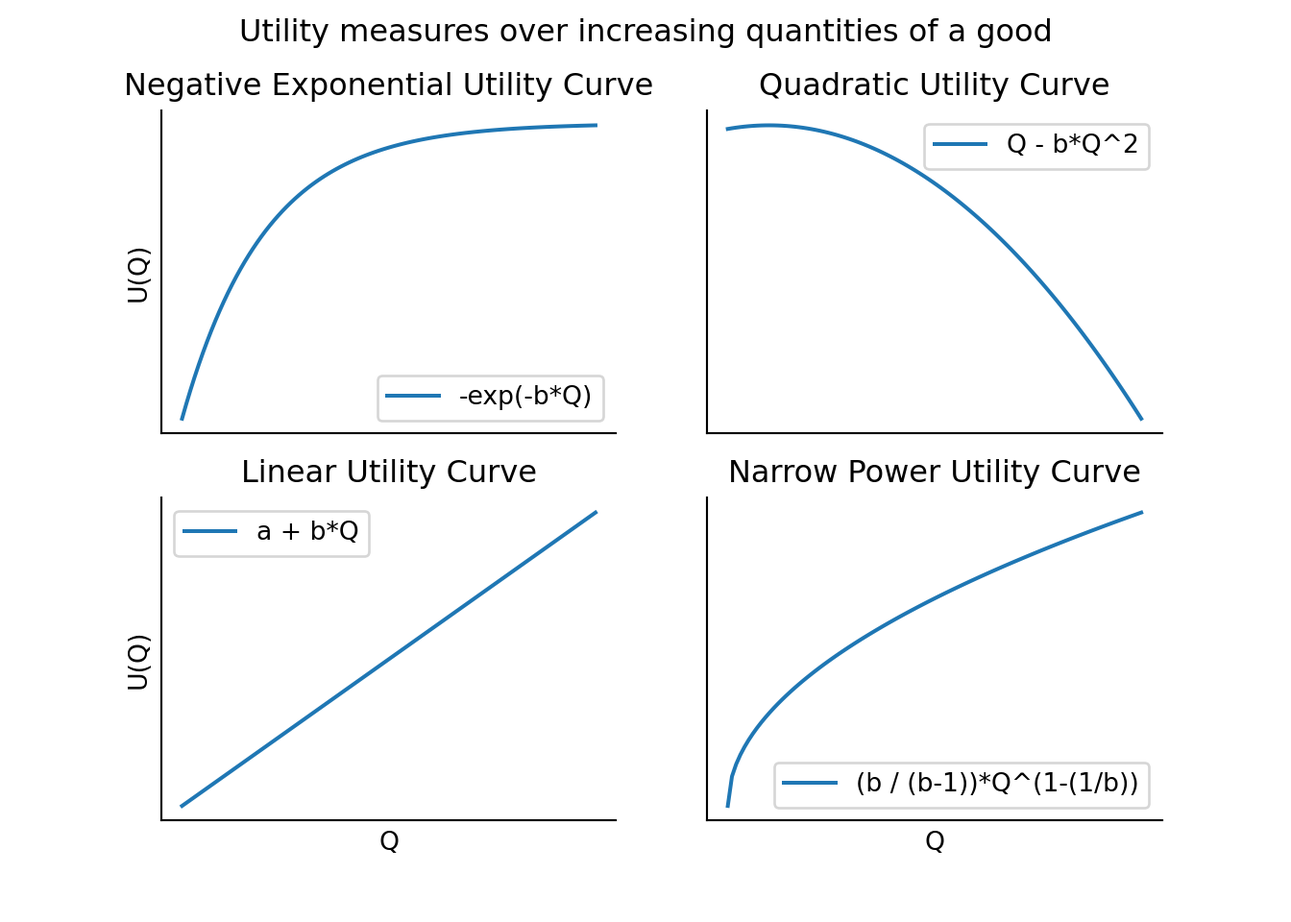
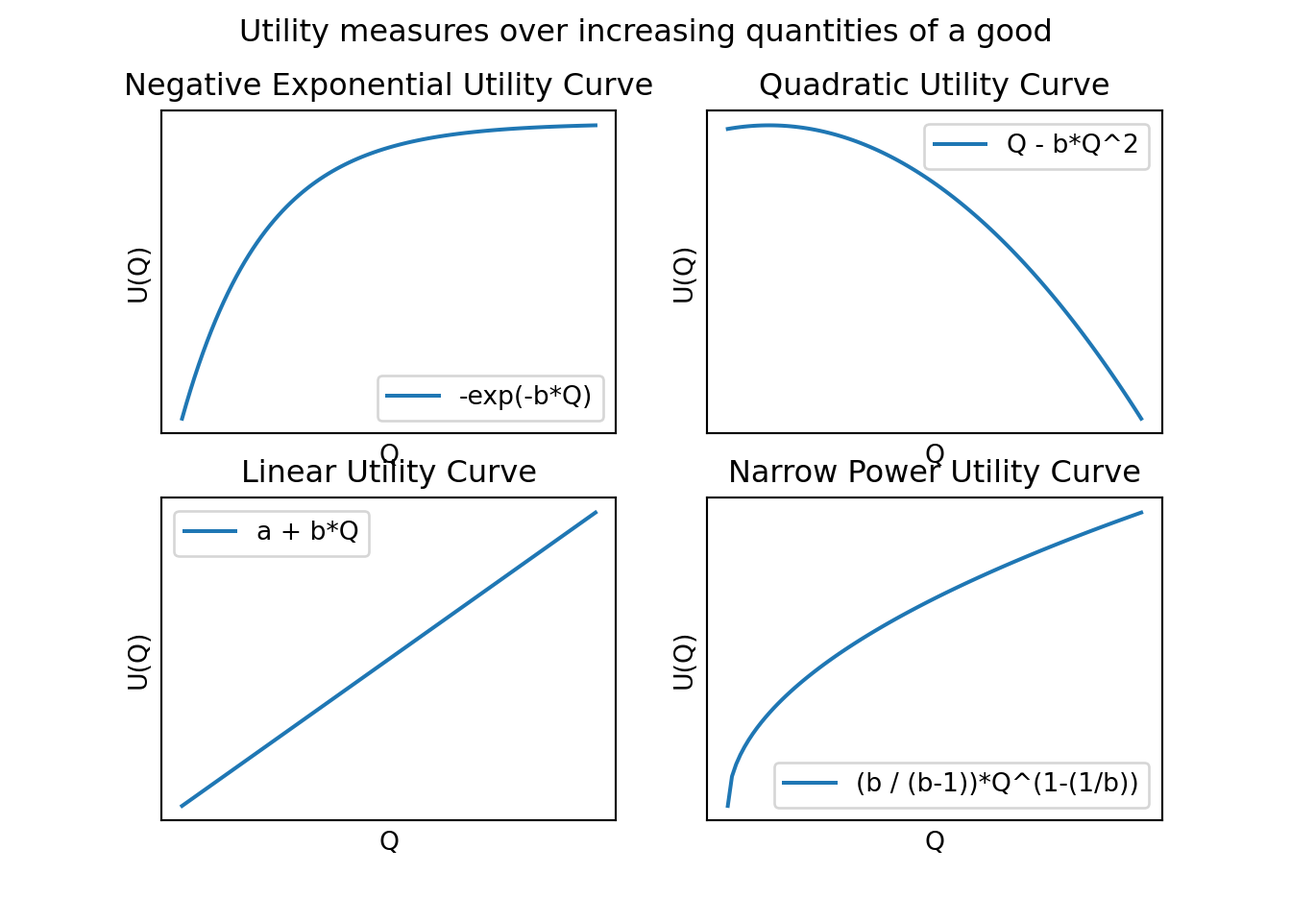
rebuilding site Fri  5 Mar 2021 21:58:04 GMT

diff --git a/book/the-average-man.html b/book/the-average-man.html
@@ -24,7 +24,7 @@
 <meta name="author" content="Nathaniel Forde" />
 
 
-<meta name="date" content="2021-03-04" />
+<meta name="date" content="2021-03-05" />
 
   <meta name="viewport" content="width=device-width, initial-scale=1" />
   <meta name="apple-mobile-web-app-capable" content="yes" />
@@ -158,6 +158,7 @@ code span.wa { color: #60a0b0; font-weight: bold; font-style: italic; } /* Warni
 <ul>
 <li class="chapter" data-level="2.4.1" data-path="the-average-man.html"><a href="the-average-man.html#the-stakes-from-utility-to-indifference"><i class="fa fa-check"></i><b>2.4.1</b> The Stakes: From Utility to Indifference</a></li>
 </ul></li>
+<li class="chapter" data-level="2.5" data-path="the-average-man.html"><a href="the-average-man.html#optimising-utility"><i class="fa fa-check"></i><b>2.5</b> Optimising Utility</a></li>
 </ul></li>
 <li class="chapter" data-level="3" data-path="literature.html"><a href="literature.html"><i class="fa fa-check"></i><b>3</b> Literature</a></li>
 <li class="chapter" data-level="4" data-path="methods.html"><a href="methods.html"><i class="fa fa-check"></i><b>4</b> Methods</a></li>
@@ -500,70 +501,107 @@ Outcomes can vary from deals of cards, to customer transactions, election result
 <h3><span class="header-section-number">2.4.1</span> The Stakes: From Utility to Indifference</h3>
 <p>Our views of probability can flex up and down in response to facts, but it’s less clear how our estimates of utility change. Too much of a good thing often tends to the bad. So we dabble, sample and share. In pursuit of variety we swap our goods, shunning stale options in favour of the novel exchange. For a given good we can differ in our appetites but it’s relatively straightforward to find the point where - one more donut is one too many. While it can be a bit unclear how we should measure utility, once we’ve decided on a metric the mathematical characteristics are meaningful. If the scale is donuts, we can infer aspects of your attitudes from your acquisition and enthusiasm for donuts. In most cases we’re interested not just in your pursuit of pastries, but how you’d be willing to trade for those pastries.</p>
 <p>We seek competitive advantage for our own produce to balance the cost owed to the skills of others. This coordinated compromise lies at the core of maximising subjective utility in a market, but at the limit some scenarios do not admit any admixture of goods. Not all babies can be cut in half. But in most cases a consumer will try to optimise their bundle of goods over an entire marketplace, preserving enough on one key good; money, to remain liquid. So, to a first approximation our utility estimate would seem to be a multivariate function.</p>
-<div class="sourceCode" id="cb9"><pre class="sourceCode python"><code class="sourceCode python"><span id="cb9-1"><a href="the-average-man.html#cb9-1" aria-hidden="true" tabindex="-1"></a></span>
-<span id="cb9-2"><a href="the-average-man.html#cb9-2" aria-hidden="true" tabindex="-1"></a><span class="kw">def</span> linear_utility(x, a<span class="op">=</span><span class="dv">2</span>, b<span class="op">=</span><span class="dv">4</span>):</span>
-<span id="cb9-3"><a href="the-average-man.html#cb9-3" aria-hidden="true" tabindex="-1"></a>    <span class="co"># This works fine on smaller numbers</span></span>
-<span id="cb9-4"><a href="the-average-man.html#cb9-4" aria-hidden="true" tabindex="-1"></a>    <span class="cf">return</span> a <span class="op">+</span> b<span class="op">*</span>x</span>
-<span id="cb9-5"><a href="the-average-man.html#cb9-5" aria-hidden="true" tabindex="-1"></a></span>
-<span id="cb9-6"><a href="the-average-man.html#cb9-6" aria-hidden="true" tabindex="-1"></a><span class="kw">def</span> quadriatic_utility(x, b<span class="op">=</span><span class="fl">0.5</span>):</span>
-<span id="cb9-7"><a href="the-average-man.html#cb9-7" aria-hidden="true" tabindex="-1"></a>    <span class="cf">return</span> x <span class="op">-</span> (b)<span class="op">*</span>(x<span class="op">**</span><span class="dv">2</span>)</span>
-<span id="cb9-8"><a href="the-average-man.html#cb9-8" aria-hidden="true" tabindex="-1"></a></span>
-<span id="cb9-9"><a href="the-average-man.html#cb9-9" aria-hidden="true" tabindex="-1"></a><span class="kw">def</span> logarithmic_utility(x, a, b):</span>
-<span id="cb9-10"><a href="the-average-man.html#cb9-10" aria-hidden="true" tabindex="-1"></a>    <span class="cf">return</span> np.log(a) <span class="op">+</span> b<span class="op">*</span>np.log(x)</span>
-<span id="cb9-11"><a href="the-average-man.html#cb9-11" aria-hidden="true" tabindex="-1"></a></span>
-<span id="cb9-12"><a href="the-average-man.html#cb9-12" aria-hidden="true" tabindex="-1"></a><span class="kw">def</span> negative_exp_utility(x, c<span class="op">=</span><span class="fl">.5</span>):</span>
-<span id="cb9-13"><a href="the-average-man.html#cb9-13" aria-hidden="true" tabindex="-1"></a>    <span class="cf">return</span> <span class="op">-</span>np.exp(<span class="op">-</span>(c<span class="op">*</span>x))</span>
-<span id="cb9-14"><a href="the-average-man.html#cb9-14" aria-hidden="true" tabindex="-1"></a></span>
-<span id="cb9-15"><a href="the-average-man.html#cb9-15" aria-hidden="true" tabindex="-1"></a><span class="kw">def</span> narrow_power(x, B<span class="op">=</span><span class="dv">2</span>):</span>
-<span id="cb9-16"><a href="the-average-man.html#cb9-16" aria-hidden="true" tabindex="-1"></a>    <span class="cf">return</span> (B <span class="op">/</span> (B <span class="op">-</span> <span class="dv">1</span>))<span class="op">*</span>(x<span class="op">**</span>(<span class="dv">1</span> <span class="op">-</span> (<span class="dv">1</span><span class="op">/</span>B)))</span>
-<span id="cb9-17"><a href="the-average-man.html#cb9-17" aria-hidden="true" tabindex="-1"></a></span>
-<span id="cb9-18"><a href="the-average-man.html#cb9-18" aria-hidden="true" tabindex="-1"></a>xdata <span class="op">=</span> np.linspace(<span class="dv">0</span>, <span class="dv">10</span>, <span class="dv">100</span>)</span>
-<span id="cb9-19"><a href="the-average-man.html#cb9-19" aria-hidden="true" tabindex="-1"></a>negExp <span class="op">=</span> negative_exp_utility(xdata, <span class="fl">0.5</span>)</span>
-<span id="cb9-20"><a href="the-average-man.html#cb9-20" aria-hidden="true" tabindex="-1"></a>quad <span class="op">=</span> quadriatic_utility(xdata, <span class="fl">0.5</span>)</span>
-<span id="cb9-21"><a href="the-average-man.html#cb9-21" aria-hidden="true" tabindex="-1"></a>narrow_pow <span class="op">=</span> narrow_power(xdata, <span class="dv">2</span>)</span>
-<span id="cb9-22"><a href="the-average-man.html#cb9-22" aria-hidden="true" tabindex="-1"></a>lin <span class="op">=</span> linear_utility(xdata, <span class="dv">2</span>, <span class="dv">3</span>)</span>
-<span id="cb9-23"><a href="the-average-man.html#cb9-23" aria-hidden="true" tabindex="-1"></a></span>
-<span id="cb9-24"><a href="the-average-man.html#cb9-24" aria-hidden="true" tabindex="-1"></a><span class="co"># Create plot</span></span>
-<span id="cb9-25"><a href="the-average-man.html#cb9-25" aria-hidden="true" tabindex="-1"></a>fig, ((ax0, ax1), (ax2, ax3)) <span class="op">=</span> plt.subplots(<span class="dv">2</span>, <span class="dv">2</span>)</span>
-<span id="cb9-26"><a href="the-average-man.html#cb9-26" aria-hidden="true" tabindex="-1"></a></span>
-<span id="cb9-27"><a href="the-average-man.html#cb9-27" aria-hidden="true" tabindex="-1"></a>ax0.plot(xdata, negExp, label<span class="op">=</span><span class="st">&quot;-exp(-b*Q)&quot;</span>)</span>
-<span id="cb9-28"><a href="the-average-man.html#cb9-28" aria-hidden="true" tabindex="-1"></a>ax0.set_title(<span class="st">&quot;Negative Exponential Utility Curve&quot;</span>)</span>
-<span id="cb9-29"><a href="the-average-man.html#cb9-29" aria-hidden="true" tabindex="-1"></a>temp <span class="op">=</span> ax0.set_xticks([])</span>
-<span id="cb9-30"><a href="the-average-man.html#cb9-30" aria-hidden="true" tabindex="-1"></a>temp <span class="op">=</span> ax0.set_yticks([])</span>
-<span id="cb9-31"><a href="the-average-man.html#cb9-31" aria-hidden="true" tabindex="-1"></a>temp <span class="op">=</span>ax0.set_ylabel(<span class="st">&quot;U(Q)&quot;</span>)</span>
-<span id="cb9-32"><a href="the-average-man.html#cb9-32" aria-hidden="true" tabindex="-1"></a>ax0.legend()</span>
-<span id="cb9-33"><a href="the-average-man.html#cb9-33" aria-hidden="true" tabindex="-1"></a>ax0.titlesize <span class="op">=</span> <span class="dv">10</span></span>
-<span id="cb9-34"><a href="the-average-man.html#cb9-34" aria-hidden="true" tabindex="-1"></a></span>
-<span id="cb9-35"><a href="the-average-man.html#cb9-35" aria-hidden="true" tabindex="-1"></a>ax1.plot(xdata, quad, label<span class="op">=</span><span class="st">&quot;Q - b*Q^2&quot;</span>)</span>
-<span id="cb9-36"><a href="the-average-man.html#cb9-36" aria-hidden="true" tabindex="-1"></a>ax1.set_title(<span class="st">&quot;Quadratic Utility Curve&quot;</span>)</span>
-<span id="cb9-37"><a href="the-average-man.html#cb9-37" aria-hidden="true" tabindex="-1"></a>temp <span class="op">=</span> ax1.set_xticks([])</span>
-<span id="cb9-38"><a href="the-average-man.html#cb9-38" aria-hidden="true" tabindex="-1"></a>temp <span class="op">=</span> ax1.set_yticks([])</span>
-<span id="cb9-39"><a href="the-average-man.html#cb9-39" aria-hidden="true" tabindex="-1"></a>ax1.legend()</span>
-<span id="cb9-40"><a href="the-average-man.html#cb9-40" aria-hidden="true" tabindex="-1"></a></span>
-<span id="cb9-41"><a href="the-average-man.html#cb9-41" aria-hidden="true" tabindex="-1"></a>ax2.plot(xdata, lin, label<span class="op">=</span><span class="st">&quot;a + b*Q&quot;</span>)</span>
-<span id="cb9-42"><a href="the-average-man.html#cb9-42" aria-hidden="true" tabindex="-1"></a>ax2.set_title(<span class="st">&quot;Linear Utility Curve&quot;</span>)</span>
-<span id="cb9-43"><a href="the-average-man.html#cb9-43" aria-hidden="true" tabindex="-1"></a>temp <span class="op">=</span> ax2.set_yticks([])</span>
-<span id="cb9-44"><a href="the-average-man.html#cb9-44" aria-hidden="true" tabindex="-1"></a>temp <span class="op">=</span> ax2.set_xticks([])</span>
-<span id="cb9-45"><a href="the-average-man.html#cb9-45" aria-hidden="true" tabindex="-1"></a>temp <span class="op">=</span> ax2.set_ylabel(<span class="st">&quot;U(Q)&quot;</span>)</span>
-<span id="cb9-46"><a href="the-average-man.html#cb9-46" aria-hidden="true" tabindex="-1"></a>temp <span class="op">=</span> ax2.set_xlabel(<span class="st">&quot;Q&quot;</span>)</span>
-<span id="cb9-47"><a href="the-average-man.html#cb9-47" aria-hidden="true" tabindex="-1"></a>ax2.legend()</span>
-<span id="cb9-48"><a href="the-average-man.html#cb9-48" aria-hidden="true" tabindex="-1"></a></span>
-<span id="cb9-49"><a href="the-average-man.html#cb9-49" aria-hidden="true" tabindex="-1"></a>ax3.plot(xdata, narrow_pow, label<span class="op">=</span><span class="st">&quot;(b / (b-1))*Q^(1-(1/b))&quot;</span>)</span>
-<span id="cb9-50"><a href="the-average-man.html#cb9-50" aria-hidden="true" tabindex="-1"></a>ax3.set_title(<span class="st">&quot;Narrow Power Utility Curve&quot;</span>)</span>
-<span id="cb9-51"><a href="the-average-man.html#cb9-51" aria-hidden="true" tabindex="-1"></a>temp <span class="op">=</span> ax3.set_yticks([])</span>
-<span id="cb9-52"><a href="the-average-man.html#cb9-52" aria-hidden="true" tabindex="-1"></a>temp <span class="op">=</span> ax3.set_xticks([])</span>
-<span id="cb9-53"><a href="the-average-man.html#cb9-53" aria-hidden="true" tabindex="-1"></a>temp <span class="op">=</span> ax3.set_xlabel(<span class="st">&quot;Q&quot;</span>)</span>
-<span id="cb9-54"><a href="the-average-man.html#cb9-54" aria-hidden="true" tabindex="-1"></a>ax3.legend()</span>
-<span id="cb9-55"><a href="the-average-man.html#cb9-55" aria-hidden="true" tabindex="-1"></a></span>
-<span id="cb9-56"><a href="the-average-man.html#cb9-56" aria-hidden="true" tabindex="-1"></a><span class="cf">for</span> _ax <span class="kw">in</span> [ax0, ax1, ax2, ax3]:</span>
-<span id="cb9-57"><a href="the-average-man.html#cb9-57" aria-hidden="true" tabindex="-1"></a>    _ax.spines[<span class="st">&quot;right&quot;</span>].set_visible(<span class="va">False</span>)</span>
-<span id="cb9-58"><a href="the-average-man.html#cb9-58" aria-hidden="true" tabindex="-1"></a>    _ax.spines[<span class="st">&quot;top&quot;</span>].set_visible(<span class="va">False</span>)</span>
-<span id="cb9-59"><a href="the-average-man.html#cb9-59" aria-hidden="true" tabindex="-1"></a></span>
-<span id="cb9-60"><a href="the-average-man.html#cb9-60" aria-hidden="true" tabindex="-1"></a>fig.suptitle(<span class="st">&quot;Utility measures over increasing quantities of a good&quot;</span>)</span>
-<span id="cb9-61"><a href="the-average-man.html#cb9-61" aria-hidden="true" tabindex="-1"></a>plt.show()</span></code></pre></div>
+<div class="sourceCode" id="cb9"><pre class="sourceCode python"><code class="sourceCode python"><span id="cb9-1"><a href="the-average-man.html#cb9-1" aria-hidden="true" tabindex="-1"></a><span class="kw">def</span> linear_utility(x, a<span class="op">=</span><span class="dv">2</span>, b<span class="op">=</span><span class="dv">4</span>):</span>
+<span id="cb9-2"><a href="the-average-man.html#cb9-2" aria-hidden="true" tabindex="-1"></a>    <span class="co"># This works fine on smaller numbers</span></span>
+<span id="cb9-3"><a href="the-average-man.html#cb9-3" aria-hidden="true" tabindex="-1"></a>    <span class="cf">return</span> a <span class="op">+</span> b<span class="op">*</span>x</span>
+<span id="cb9-4"><a href="the-average-man.html#cb9-4" aria-hidden="true" tabindex="-1"></a></span>
+<span id="cb9-5"><a href="the-average-man.html#cb9-5" aria-hidden="true" tabindex="-1"></a><span class="kw">def</span> quadriatic_utility(x, b<span class="op">=</span><span class="fl">0.5</span>):</span>
+<span id="cb9-6"><a href="the-average-man.html#cb9-6" aria-hidden="true" tabindex="-1"></a>    <span class="cf">return</span> x <span class="op">-</span> (b)<span class="op">*</span>(x<span class="op">**</span><span class="dv">2</span>)</span>
+<span id="cb9-7"><a href="the-average-man.html#cb9-7" aria-hidden="true" tabindex="-1"></a></span>
+<span id="cb9-8"><a href="the-average-man.html#cb9-8" aria-hidden="true" tabindex="-1"></a><span class="kw">def</span> logarithmic_utility(x, a, b):</span>
+<span id="cb9-9"><a href="the-average-man.html#cb9-9" aria-hidden="true" tabindex="-1"></a>    <span class="cf">return</span> np.log(a) <span class="op">+</span> b<span class="op">*</span>np.log(x)</span>
+<span id="cb9-10"><a href="the-average-man.html#cb9-10" aria-hidden="true" tabindex="-1"></a></span>
+<span id="cb9-11"><a href="the-average-man.html#cb9-11" aria-hidden="true" tabindex="-1"></a><span class="kw">def</span> negative_exp_utility(x, c<span class="op">=</span><span class="fl">.5</span>):</span>
+<span id="cb9-12"><a href="the-average-man.html#cb9-12" aria-hidden="true" tabindex="-1"></a>    <span class="cf">return</span> <span class="op">-</span>np.exp(<span class="op">-</span>(c<span class="op">*</span>x))</span>
+<span id="cb9-13"><a href="the-average-man.html#cb9-13" aria-hidden="true" tabindex="-1"></a></span>
+<span id="cb9-14"><a href="the-average-man.html#cb9-14" aria-hidden="true" tabindex="-1"></a><span class="kw">def</span> narrow_power(x, B<span class="op">=</span><span class="dv">2</span>):</span>
+<span id="cb9-15"><a href="the-average-man.html#cb9-15" aria-hidden="true" tabindex="-1"></a>    <span class="cf">return</span> (B <span class="op">/</span> (B <span class="op">-</span> <span class="dv">1</span>))<span class="op">*</span>(x<span class="op">**</span>(<span class="dv">1</span> <span class="op">-</span> (<span class="dv">1</span><span class="op">/</span>B)))</span>
+<span id="cb9-16"><a href="the-average-man.html#cb9-16" aria-hidden="true" tabindex="-1"></a></span>
+<span id="cb9-17"><a href="the-average-man.html#cb9-17" aria-hidden="true" tabindex="-1"></a>xdata <span class="op">=</span> np.linspace(<span class="dv">0</span>, <span class="dv">10</span>, <span class="dv">100</span>)</span>
+<span id="cb9-18"><a href="the-average-man.html#cb9-18" aria-hidden="true" tabindex="-1"></a>negExp <span class="op">=</span> negative_exp_utility(xdata, <span class="fl">0.5</span>)</span>
+<span id="cb9-19"><a href="the-average-man.html#cb9-19" aria-hidden="true" tabindex="-1"></a>quad <span class="op">=</span> quadriatic_utility(xdata, <span class="fl">0.5</span>)</span>
+<span id="cb9-20"><a href="the-average-man.html#cb9-20" aria-hidden="true" tabindex="-1"></a>narrow_pow <span class="op">=</span> narrow_power(xdata, <span class="dv">2</span>)</span>
+<span id="cb9-21"><a href="the-average-man.html#cb9-21" aria-hidden="true" tabindex="-1"></a>lin <span class="op">=</span> linear_utility(xdata, <span class="dv">2</span>, <span class="dv">3</span>)</span>
+<span id="cb9-22"><a href="the-average-man.html#cb9-22" aria-hidden="true" tabindex="-1"></a></span>
+<span id="cb9-23"><a href="the-average-man.html#cb9-23" aria-hidden="true" tabindex="-1"></a><span class="co"># Create plot</span></span>
+<span id="cb9-24"><a href="the-average-man.html#cb9-24" aria-hidden="true" tabindex="-1"></a>fig, axes <span class="op">=</span> plt.subplots(<span class="dv">2</span>, <span class="dv">2</span>)</span>
+<span id="cb9-25"><a href="the-average-man.html#cb9-25" aria-hidden="true" tabindex="-1"></a>labels <span class="op">=</span> [<span class="st">&quot;-exp(-b*Q)&quot;</span>, <span class="st">&quot;Q - b*Q^2&quot;</span>, <span class="st">&quot;a + b*Q&quot;</span>, <span class="st">&quot;(b / (b-1))*Q^(1-(1/b))&quot;</span>]</span>
+<span id="cb9-26"><a href="the-average-man.html#cb9-26" aria-hidden="true" tabindex="-1"></a>titles <span class="op">=</span> [<span class="st">&quot;Negative Exponential Utility Curve&quot;</span>, <span class="st">&quot;Quadratic Utility Curve&quot;</span>, </span>
+<span id="cb9-27"><a href="the-average-man.html#cb9-27" aria-hidden="true" tabindex="-1"></a>          <span class="st">&quot;Linear Utility Curve&quot;</span>,<span class="st">&quot;Narrow Power Utility Curve&quot;</span>]</span>
+<span id="cb9-28"><a href="the-average-man.html#cb9-28" aria-hidden="true" tabindex="-1"></a>y <span class="op">=</span> [negExp, quad, lin, narrow_pow]</span>
+<span id="cb9-29"><a href="the-average-man.html#cb9-29" aria-hidden="true" tabindex="-1"></a></span>
+<span id="cb9-30"><a href="the-average-man.html#cb9-30" aria-hidden="true" tabindex="-1"></a><span class="cf">for</span> i, ax <span class="kw">in</span> <span class="bu">enumerate</span>(np.hstack(axes)):</span>
+<span id="cb9-31"><a href="the-average-man.html#cb9-31" aria-hidden="true" tabindex="-1"></a>    ax.plot(xdata, y[i], label<span class="op">=</span>labels[i])</span>
+<span id="cb9-32"><a href="the-average-man.html#cb9-32" aria-hidden="true" tabindex="-1"></a>    ax.set_title(titles[i])</span>
+<span id="cb9-33"><a href="the-average-man.html#cb9-33" aria-hidden="true" tabindex="-1"></a>    tmp <span class="op">=</span> ax.set_xticks([])</span>
+<span id="cb9-34"><a href="the-average-man.html#cb9-34" aria-hidden="true" tabindex="-1"></a>    tmp <span class="op">=</span> ax.set_yticks([])</span>
+<span id="cb9-35"><a href="the-average-man.html#cb9-35" aria-hidden="true" tabindex="-1"></a>    ax.set_ylabel(<span class="st">&quot;U(Q)&quot;</span>)</span>
+<span id="cb9-36"><a href="the-average-man.html#cb9-36" aria-hidden="true" tabindex="-1"></a>    ax.set_xlabel(<span class="st">&quot;Q&quot;</span>)</span>
+<span id="cb9-37"><a href="the-average-man.html#cb9-37" aria-hidden="true" tabindex="-1"></a>    ax.legend()</span>
+<span id="cb9-38"><a href="the-average-man.html#cb9-38" aria-hidden="true" tabindex="-1"></a>    </span>
+<span id="cb9-39"><a href="the-average-man.html#cb9-39" aria-hidden="true" tabindex="-1"></a>fig.suptitle(<span class="st">&quot;Utility measures over increasing quantities of a good&quot;</span>)</span>
+<span id="cb9-40"><a href="the-average-man.html#cb9-40" aria-hidden="true" tabindex="-1"></a>plt.show()</span></code></pre></div>
 <p><img src="bookdown-demo_files/figure-html/unnamed-chunk-11-1.png" width="672" /></p>
-
+<p><span class="math display">\[ u(\mathbf{g}) = f(g_{0}, g_{1} ... g_{n}) \]</span></p>
+<p>There are number of ways we can specify a utility function as seen in Figure 10, but a typical example is the Cobb-Douglas function.</p>
+<p><span class="math display">\[ u(\mathbf{g}) = g_{0}^{\alpha_{0}}g_{1}^{\alpha_{1}} ... g_{n}^{\alpha_{n}} \text{ where } \forall i \sum \alpha_i = 1\]</span></p>
+<p>Then taking the case of two goods <span class="math inline">\(g1, g2\)</span> we can determine an indifference curve where you would be willing to exchange quantities of <span class="math inline">\(g1\)</span> for an agreeable amount of <span class="math inline">\(g2\)</span>. The task is to express the value of a given good as priced in terms of the other goods. Set</p>
+<p><span class="math display">\[u(\mathbf{g}) = k =  g_{1}^{\frac{1}{2}}g_{2}^{\frac{1}{2}} = (g_{1}g_{2})^{\frac{1}{2}}  = \sqrt{g_{1}g_{2}}\]</span>
+<span class="math display">\[ \Rightarrow k^{2} = g_{1}g_{2} \Rightarrow \frac{k^{2}}{g_{2}} = g_{1}\]</span></p>
+<p>Using this formula we can express how the quantities of fair exchange vary based on a fixed utility value. This is not to say that these curves represent an actual or objectively fair price, just that when measured in terms of our utility these are mappings of quantities of goods we would be happy to exchange. Your view of a fair price is encoded in your utility theory. It’s at this point when utility theory can be said to verge on empirical science. If we can model your preferences as a utility function characteristic of some general attitude toward acquisition, we might also hope to be able to predict future trades and cater for individual desires.</p>
+<div class="sourceCode" id="cb10"><pre class="sourceCode python"><code class="sourceCode python"><span id="cb10-1"><a href="the-average-man.html#cb10-1" aria-hidden="true" tabindex="-1"></a><span class="kw">def</span> cobb_douglas(g1, g2, a1, a2):</span>
+<span id="cb10-2"><a href="the-average-man.html#cb10-2" aria-hidden="true" tabindex="-1"></a>    <span class="cf">return</span> g1<span class="op">**</span>a1 <span class="op">*</span> g2<span class="op">**</span>a2</span>
+<span id="cb10-3"><a href="the-average-man.html#cb10-3" aria-hidden="true" tabindex="-1"></a></span>
+<span id="cb10-4"><a href="the-average-man.html#cb10-4" aria-hidden="true" tabindex="-1"></a></span>
+<span id="cb10-5"><a href="the-average-man.html#cb10-5" aria-hidden="true" tabindex="-1"></a>fig, ax <span class="op">=</span> plt.subplots()</span>
+<span id="cb10-6"><a href="the-average-man.html#cb10-6" aria-hidden="true" tabindex="-1"></a>g1 <span class="op">=</span> np.linspace(<span class="dv">1</span>, <span class="dv">10</span>, <span class="dv">100</span>)</span>
+<span id="cb10-7"><a href="the-average-man.html#cb10-7" aria-hidden="true" tabindex="-1"></a>g2 <span class="op">=</span> np.linspace(<span class="dv">1</span>, <span class="dv">20</span>, <span class="dv">100</span>).reshape((<span class="dv">100</span>, <span class="dv">1</span>))</span>
+<span id="cb10-8"><a href="the-average-man.html#cb10-8" aria-hidden="true" tabindex="-1"></a>contours <span class="op">=</span> ax.contourf(g1, g2.flatten(), cobb_douglas(g1, g2, <span class="fl">.5</span>, <span class="fl">.5</span>))</span>
+<span id="cb10-9"><a href="the-average-man.html#cb10-9" aria-hidden="true" tabindex="-1"></a>tmp <span class="op">=</span> fig.colorbar(contours)</span>
+<span id="cb10-10"><a href="the-average-man.html#cb10-10" aria-hidden="true" tabindex="-1"></a>ax.set_xlabel(<span class="st">&quot;g1&quot;</span>)</span>
+<span id="cb10-11"><a href="the-average-man.html#cb10-11" aria-hidden="true" tabindex="-1"></a>ax.set_ylabel(<span class="st">&quot;g2&quot;</span>)</span>
+<span id="cb10-12"><a href="the-average-man.html#cb10-12" aria-hidden="true" tabindex="-1"></a>ax.set_title(<span class="st">&quot;Cobb Douglas: g1^(.5)*g2^(1-(.5))&quot;</span>)</span>
+<span id="cb10-13"><a href="the-average-man.html#cb10-13" aria-hidden="true" tabindex="-1"></a>plt.show()</span></code></pre></div>
+<p><img src="bookdown-demo_files/figure-html/unnamed-chunk-12-1.png" width="672" /></p>
+<p>Contrast the case of a schizophrenic’s patient’s utility as they try to weight aspects of their health. Even if you could measure each dimension simultaneously, what scale captures the worth of autonomy and measures the trade off against clarity, delusion and paranoia? How do you plan for children in the fear of what your genetics could seed? Do you fear the harm done through inheritance or the looming lifelong responsibility of care for an affected child? Even adoption foists onto the child the burden of having you as a parent. The disease calibrates the cost, but the equations are hard to solve.<a href="#fn5" class="footnote-ref" id="fnref5"><sup>5</sup></a></p>
 </div>
+</div>
+<div id="optimising-utility" class="section level2" number="2.5">
+<h2><span class="header-section-number">2.5</span> Optimising Utility</h2>
+<p>A further complication arises when we try to account for a consumer’s budget or resources. The shape of the Cobb-Douglas function in Figure 12 shows that the utility surface is constantly increasing with our rate of acquisition. So without any constraints the consumer would not achieve satisfaction, but continue like a glutton consuming forever without cease. Add a budgetary constraint and natural trade-offs between desire and cost mean that we need to find the maximum point at which an indifference curve intersects with our budgetary line. Instead of solving the equation:</p>
+<div class="sourceCode" id="cb11"><pre class="sourceCode python"><code class="sourceCode python"><span id="cb11-1"><a href="the-average-man.html#cb11-1" aria-hidden="true" tabindex="-1"></a>g1 <span class="op">=</span> np.linspace(<span class="dv">1</span>, <span class="dv">10</span>, <span class="dv">100</span>)</span>
+<span id="cb11-2"><a href="the-average-man.html#cb11-2" aria-hidden="true" tabindex="-1"></a>g2 <span class="op">=</span> np.linspace(<span class="dv">1</span>, <span class="dv">20</span>, <span class="dv">100</span>).reshape((<span class="dv">100</span>, <span class="dv">1</span>))</span>
+<span id="cb11-3"><a href="the-average-man.html#cb11-3" aria-hidden="true" tabindex="-1"></a></span>
+<span id="cb11-4"><a href="the-average-man.html#cb11-4" aria-hidden="true" tabindex="-1"></a><span class="kw">def</span> g1_indifference(g2, k, alpha<span class="op">=</span><span class="dv">1</span><span class="op">/</span><span class="dv">3</span>):</span>
+<span id="cb11-5"><a href="the-average-man.html#cb11-5" aria-hidden="true" tabindex="-1"></a>    orig <span class="op">=</span> k<span class="op">**</span>(<span class="dv">1</span><span class="op">/</span>(<span class="dv">1</span><span class="op">-</span>alpha)) <span class="op">*</span> g2<span class="op">**</span>(<span class="op">-</span>alpha<span class="op">/</span>(<span class="dv">1</span><span class="op">-</span>alpha))</span>
+<span id="cb11-6"><a href="the-average-man.html#cb11-6" aria-hidden="true" tabindex="-1"></a>    <span class="cf">return</span> orig</span>
+<span id="cb11-7"><a href="the-average-man.html#cb11-7" aria-hidden="true" tabindex="-1"></a></span>
+<span id="cb11-8"><a href="the-average-man.html#cb11-8" aria-hidden="true" tabindex="-1"></a><span class="kw">def</span> plot_indifference_curves(ax, alpha<span class="op">=</span><span class="fl">.5</span>):</span>
+<span id="cb11-9"><a href="the-average-man.html#cb11-9" aria-hidden="true" tabindex="-1"></a>    k <span class="op">=</span> np.arange(<span class="dv">1</span>, <span class="dv">14</span>, <span class="dv">3</span>)</span>
+<span id="cb11-10"><a href="the-average-man.html#cb11-10" aria-hidden="true" tabindex="-1"></a>    ax.plot(g2, g1_indifference(g2, k, alpha))</span>
+<span id="cb11-11"><a href="the-average-man.html#cb11-11" aria-hidden="true" tabindex="-1"></a>    ax.legend([<span class="st">&quot;U(g1^.5, g2^.5)&quot;</span> <span class="op">+</span> <span class="st">&quot; = </span><span class="sc">{}</span><span class="st">&quot;</span>.<span class="bu">format</span>(i) <span class="cf">for</span> i <span class="kw">in</span> k])</span>
+<span id="cb11-12"><a href="the-average-man.html#cb11-12" aria-hidden="true" tabindex="-1"></a>    ax.set_xlabel(<span class="st">&quot;g2&quot;</span>)</span>
+<span id="cb11-13"><a href="the-average-man.html#cb11-13" aria-hidden="true" tabindex="-1"></a>    ax.set_ylabel(<span class="st">&quot;g1 &quot;</span>)</span>
+<span id="cb11-14"><a href="the-average-man.html#cb11-14" aria-hidden="true" tabindex="-1"></a>    plt.title(<span class="st">&quot;Indifference Curves with Budget Constraint&quot;</span>)</span>
+<span id="cb11-15"><a href="the-average-man.html#cb11-15" aria-hidden="true" tabindex="-1"></a></span>
+<span id="cb11-16"><a href="the-average-man.html#cb11-16" aria-hidden="true" tabindex="-1"></a><span class="kw">def</span> budget(B, W<span class="op">=</span><span class="dv">50</span>, price<span class="op">=</span><span class="dv">2</span>):</span>
+<span id="cb11-17"><a href="the-average-man.html#cb11-17" aria-hidden="true" tabindex="-1"></a>    <span class="co">&quot;Given B, W, and pa return the max amount of A our consumer can afford&quot;</span></span>
+<span id="cb11-18"><a href="the-average-man.html#cb11-18" aria-hidden="true" tabindex="-1"></a>    <span class="cf">return</span> (W <span class="op">-</span> B) <span class="op">/</span> price</span>
+<span id="cb11-19"><a href="the-average-man.html#cb11-19" aria-hidden="true" tabindex="-1"></a></span>
+<span id="cb11-20"><a href="the-average-man.html#cb11-20" aria-hidden="true" tabindex="-1"></a><span class="kw">def</span> plot_budget_constraint(ax, W<span class="op">=</span><span class="dv">40</span>, price<span class="op">=</span><span class="dv">2</span>):</span>
+<span id="cb11-21"><a href="the-average-man.html#cb11-21" aria-hidden="true" tabindex="-1"></a>    g2 <span class="op">=</span> np.array([<span class="dv">0</span>, W])</span>
+<span id="cb11-22"><a href="the-average-man.html#cb11-22" aria-hidden="true" tabindex="-1"></a>    g1 <span class="op">=</span> budget(g2, W, price)</span>
+<span id="cb11-23"><a href="the-average-man.html#cb11-23" aria-hidden="true" tabindex="-1"></a>    ax.plot(g2, g1)</span>
+<span id="cb11-24"><a href="the-average-man.html#cb11-24" aria-hidden="true" tabindex="-1"></a>    ax.fill_between(g2, <span class="dv">0</span>, g1, alpha<span class="op">=</span><span class="fl">0.2</span>)</span>
+<span id="cb11-25"><a href="the-average-man.html#cb11-25" aria-hidden="true" tabindex="-1"></a>    ax.set_xlabel(<span class="st">&quot;g2&quot;</span>)</span>
+<span id="cb11-26"><a href="the-average-man.html#cb11-26" aria-hidden="true" tabindex="-1"></a>    ax.set_ylabel(<span class="st">&quot;g1&quot;</span>)</span>
+<span id="cb11-27"><a href="the-average-man.html#cb11-27" aria-hidden="true" tabindex="-1"></a>    <span class="cf">return</span> ax</span>
+<span id="cb11-28"><a href="the-average-man.html#cb11-28" aria-hidden="true" tabindex="-1"></a></span>
+<span id="cb11-29"><a href="the-average-man.html#cb11-29" aria-hidden="true" tabindex="-1"></a>fig, ax <span class="op">=</span> plt.subplots()</span>
+<span id="cb11-30"><a href="the-average-man.html#cb11-30" aria-hidden="true" tabindex="-1"></a>plot_indifference_curves(ax)</span>
+<span id="cb11-31"><a href="the-average-man.html#cb11-31" aria-hidden="true" tabindex="-1"></a>plot_budget_constraint(ax)</span></code></pre></div>
+<p><img src="bookdown-demo_files/figure-html/unnamed-chunk-13-1.png" width="672" /></p>
+
 </div>
 </div>
 <div class="footnotes">
@@ -573,6 +611,7 @@ Outcomes can vary from deals of cards, to customer transactions, election result
 <li id="fn2"><p>For a typical example of how <span class="math inline">\(EV\)</span> is used to express decisions under uncertainty see chapter 7 in the textbook <span class="citation">(<a href="references.html#ref-BarberBR_ML" role="doc-biblioref">Barber 2012</a>)</span>, but the paradigm owes much of its influence to decision theoretic work of Leonard Savage in <span class="citation">(<a href="references.html#ref-savage54" role="doc-biblioref">Savage 1954</a>)</span><a href="the-average-man.html#fnref2" class="footnote-back">↩</a></p></li>
 <li id="fn3"><p>"The mind has been <em>taken over</em>. The mind has <em>lost the ability to make rational decisions</em> in <span class="citation">(<a href="references.html#ref-WangSchizophrenia" role="doc-biblioref">Wang 2019</a>)</span> pg58<a href="the-average-man.html#fnref3" class="footnote-back">↩</a></p></li>
 <li id="fn4"><p>“The Slender Man, the Nothing and Me” in <span class="citation">(<a href="references.html#ref-WangSchizophrenia" role="doc-biblioref">Wang 2019</a>)</span><a href="the-average-man.html#fnref4" class="footnote-back">↩</a></p></li>
+<li id="fn5"><p>See ``The Choice of Children" in <span class="citation">(<a href="references.html#ref-WangSchizophrenia" role="doc-biblioref">Wang 2019</a>)</span><a href="the-average-man.html#fnref5" class="footnote-back">↩</a></p></li>
 </ol>
 </div>
             </section>

diff --git a/post/theoretical_risks_meehl/index.html b/post/theoretical_risks_meehl/index.html
@@ -396,21 +396,8 @@ for corroborating substantive theories in the soft areas is a terrible mistake, 
     </a>
 </div>
       </div>
-      <div id="disqus_thread"></div>
-<script type="text/javascript">
-    var disqus_shortname = 'examined-algorithms';
-    var disqus_identifier = 'https:\/\/nathanielf.github.io\/post\/theoretical_risks_meehl\/';
-    var disqus_title = 'Factor Analysis and Construct Validity in Psychology';
-    var disqus_url = 'https:\/\/nathanielf.github.io\/post\/theoretical_risks_meehl\/';
-
-    (function() {
-        var dsq = document.createElement('script'); dsq.type = 'text/javascript'; dsq.async = true;
-        dsq.src = '//' + disqus_shortname + '.disqus.com/embed.js';
-        (document.getElementsByTagName('head')[0] || document.getElementsByTagName('body')[0]).appendChild(dsq);
-    })();
-</script>
-<noscript>Please enable JavaScript to view the <a href="http://disqus.com/?ref_noscript">comments powered by Disqus.</a></noscript>
-<a href="http://disqus.com" class="dsq-brlink">comments powered by <span class="logo-disqus">Disqus</span></a>
+      <script src="https://utteranc.es/client.js" repo="NathanielF/NathanielF.github.io" issue-term="title" label="comments 💬" theme="github-light" crossorigin="anonymous" async>
+      </script>
     </div>
   </div>
   

diff --git a/post/mle_utility_and_choice/index.html b/post/mle_utility_and_choice/index.html
@@ -580,21 +580,8 @@ res<span style="color: #555555">.</span>round(<span style="color: #FF6600">3</sp
     </a>
 </div>
       </div>
-      <div id="disqus_thread"></div>
-<script type="text/javascript">
-    var disqus_shortname = 'examined-algorithms';
-    var disqus_identifier = 'https:\/\/nathanielf.github.io\/post\/mle_utility_and_choice\/';
-    var disqus_title = 'Trains, Planes ...Utility and Maximum Likelihood';
-    var disqus_url = 'https:\/\/nathanielf.github.io\/post\/mle_utility_and_choice\/';
-
-    (function() {
-        var dsq = document.createElement('script'); dsq.type = 'text/javascript'; dsq.async = true;
-        dsq.src = '//' + disqus_shortname + '.disqus.com/embed.js';
-        (document.getElementsByTagName('head')[0] || document.getElementsByTagName('body')[0]).appendChild(dsq);
-    })();
-</script>
-<noscript>Please enable JavaScript to view the <a href="http://disqus.com/?ref_noscript">comments powered by Disqus.</a></noscript>
-<a href="http://disqus.com" class="dsq-brlink">comments powered by <span class="logo-disqus">Disqus</span></a>
+      <script src="https://utteranc.es/client.js" repo="NathanielF/NathanielF.github.io" issue-term="title" label="comments 💬" theme="github-light" crossorigin="anonymous" async>
+      </script>
     </div>
   </div>
   

diff --git a/post/pricing_a_potted_history/index.html b/post/pricing_a_potted_history/index.html
@@ -327,21 +327,8 @@ supply. The price it charges must account for this. -  W. Paczkowski, <em>Pricin
     </a>
 </div>
       </div>
-      <div id="disqus_thread"></div>
-<script type="text/javascript">
-    var disqus_shortname = 'examined-algorithms';
-    var disqus_identifier = 'https:\/\/nathanielf.github.io\/post\/pricing_a_potted_history\/';
-    var disqus_title = 'Pricing, Simultaneity and IV Regression';
-    var disqus_url = 'https:\/\/nathanielf.github.io\/post\/pricing_a_potted_history\/';
-
-    (function() {
-        var dsq = document.createElement('script'); dsq.type = 'text/javascript'; dsq.async = true;
-        dsq.src = '//' + disqus_shortname + '.disqus.com/embed.js';
-        (document.getElementsByTagName('head')[0] || document.getElementsByTagName('body')[0]).appendChild(dsq);
-    })();
-</script>
-<noscript>Please enable JavaScript to view the <a href="http://disqus.com/?ref_noscript">comments powered by Disqus.</a></noscript>
-<a href="http://disqus.com" class="dsq-brlink">comments powered by <span class="logo-disqus">Disqus</span></a>
+      <script src="https://utteranc.es/client.js" repo="NathanielF/NathanielF.github.io" issue-term="title" label="comments 💬" theme="github-light" crossorigin="anonymous" async>
+      </script>
     </div>
   </div>
   

diff --git a/post/forecasting_grue_timeseries/index.html b/post/forecasting_grue_timeseries/index.html
@@ -257,21 +257,8 @@ A similar consolidation can be done for GDP since:</p>
     </a>
 </div>
       </div>
-      <div id="disqus_thread"></div>
-<script type="text/javascript">
-    var disqus_shortname = 'examined-algorithms';
-    var disqus_identifier = 'https:\/\/nathanielf.github.io\/post\/forecasting_grue_timeseries\/';
-    var disqus_title = 'Haavelmo\x27s Program of Autonomous laws in Econometrics';
-    var disqus_url = 'https:\/\/nathanielf.github.io\/post\/forecasting_grue_timeseries\/';
-
-    (function() {
-        var dsq = document.createElement('script'); dsq.type = 'text/javascript'; dsq.async = true;
-        dsq.src = '//' + disqus_shortname + '.disqus.com/embed.js';
-        (document.getElementsByTagName('head')[0] || document.getElementsByTagName('body')[0]).appendChild(dsq);
-    })();
-</script>
-<noscript>Please enable JavaScript to view the <a href="http://disqus.com/?ref_noscript">comments powered by Disqus.</a></noscript>
-<a href="http://disqus.com" class="dsq-brlink">comments powered by <span class="logo-disqus">Disqus</span></a>
+      <script src="https://utteranc.es/client.js" repo="NathanielF/NathanielF.github.io" issue-term="title" label="comments 💬" theme="github-light" crossorigin="anonymous" async>
+      </script>
     </div>
   </div>
   
